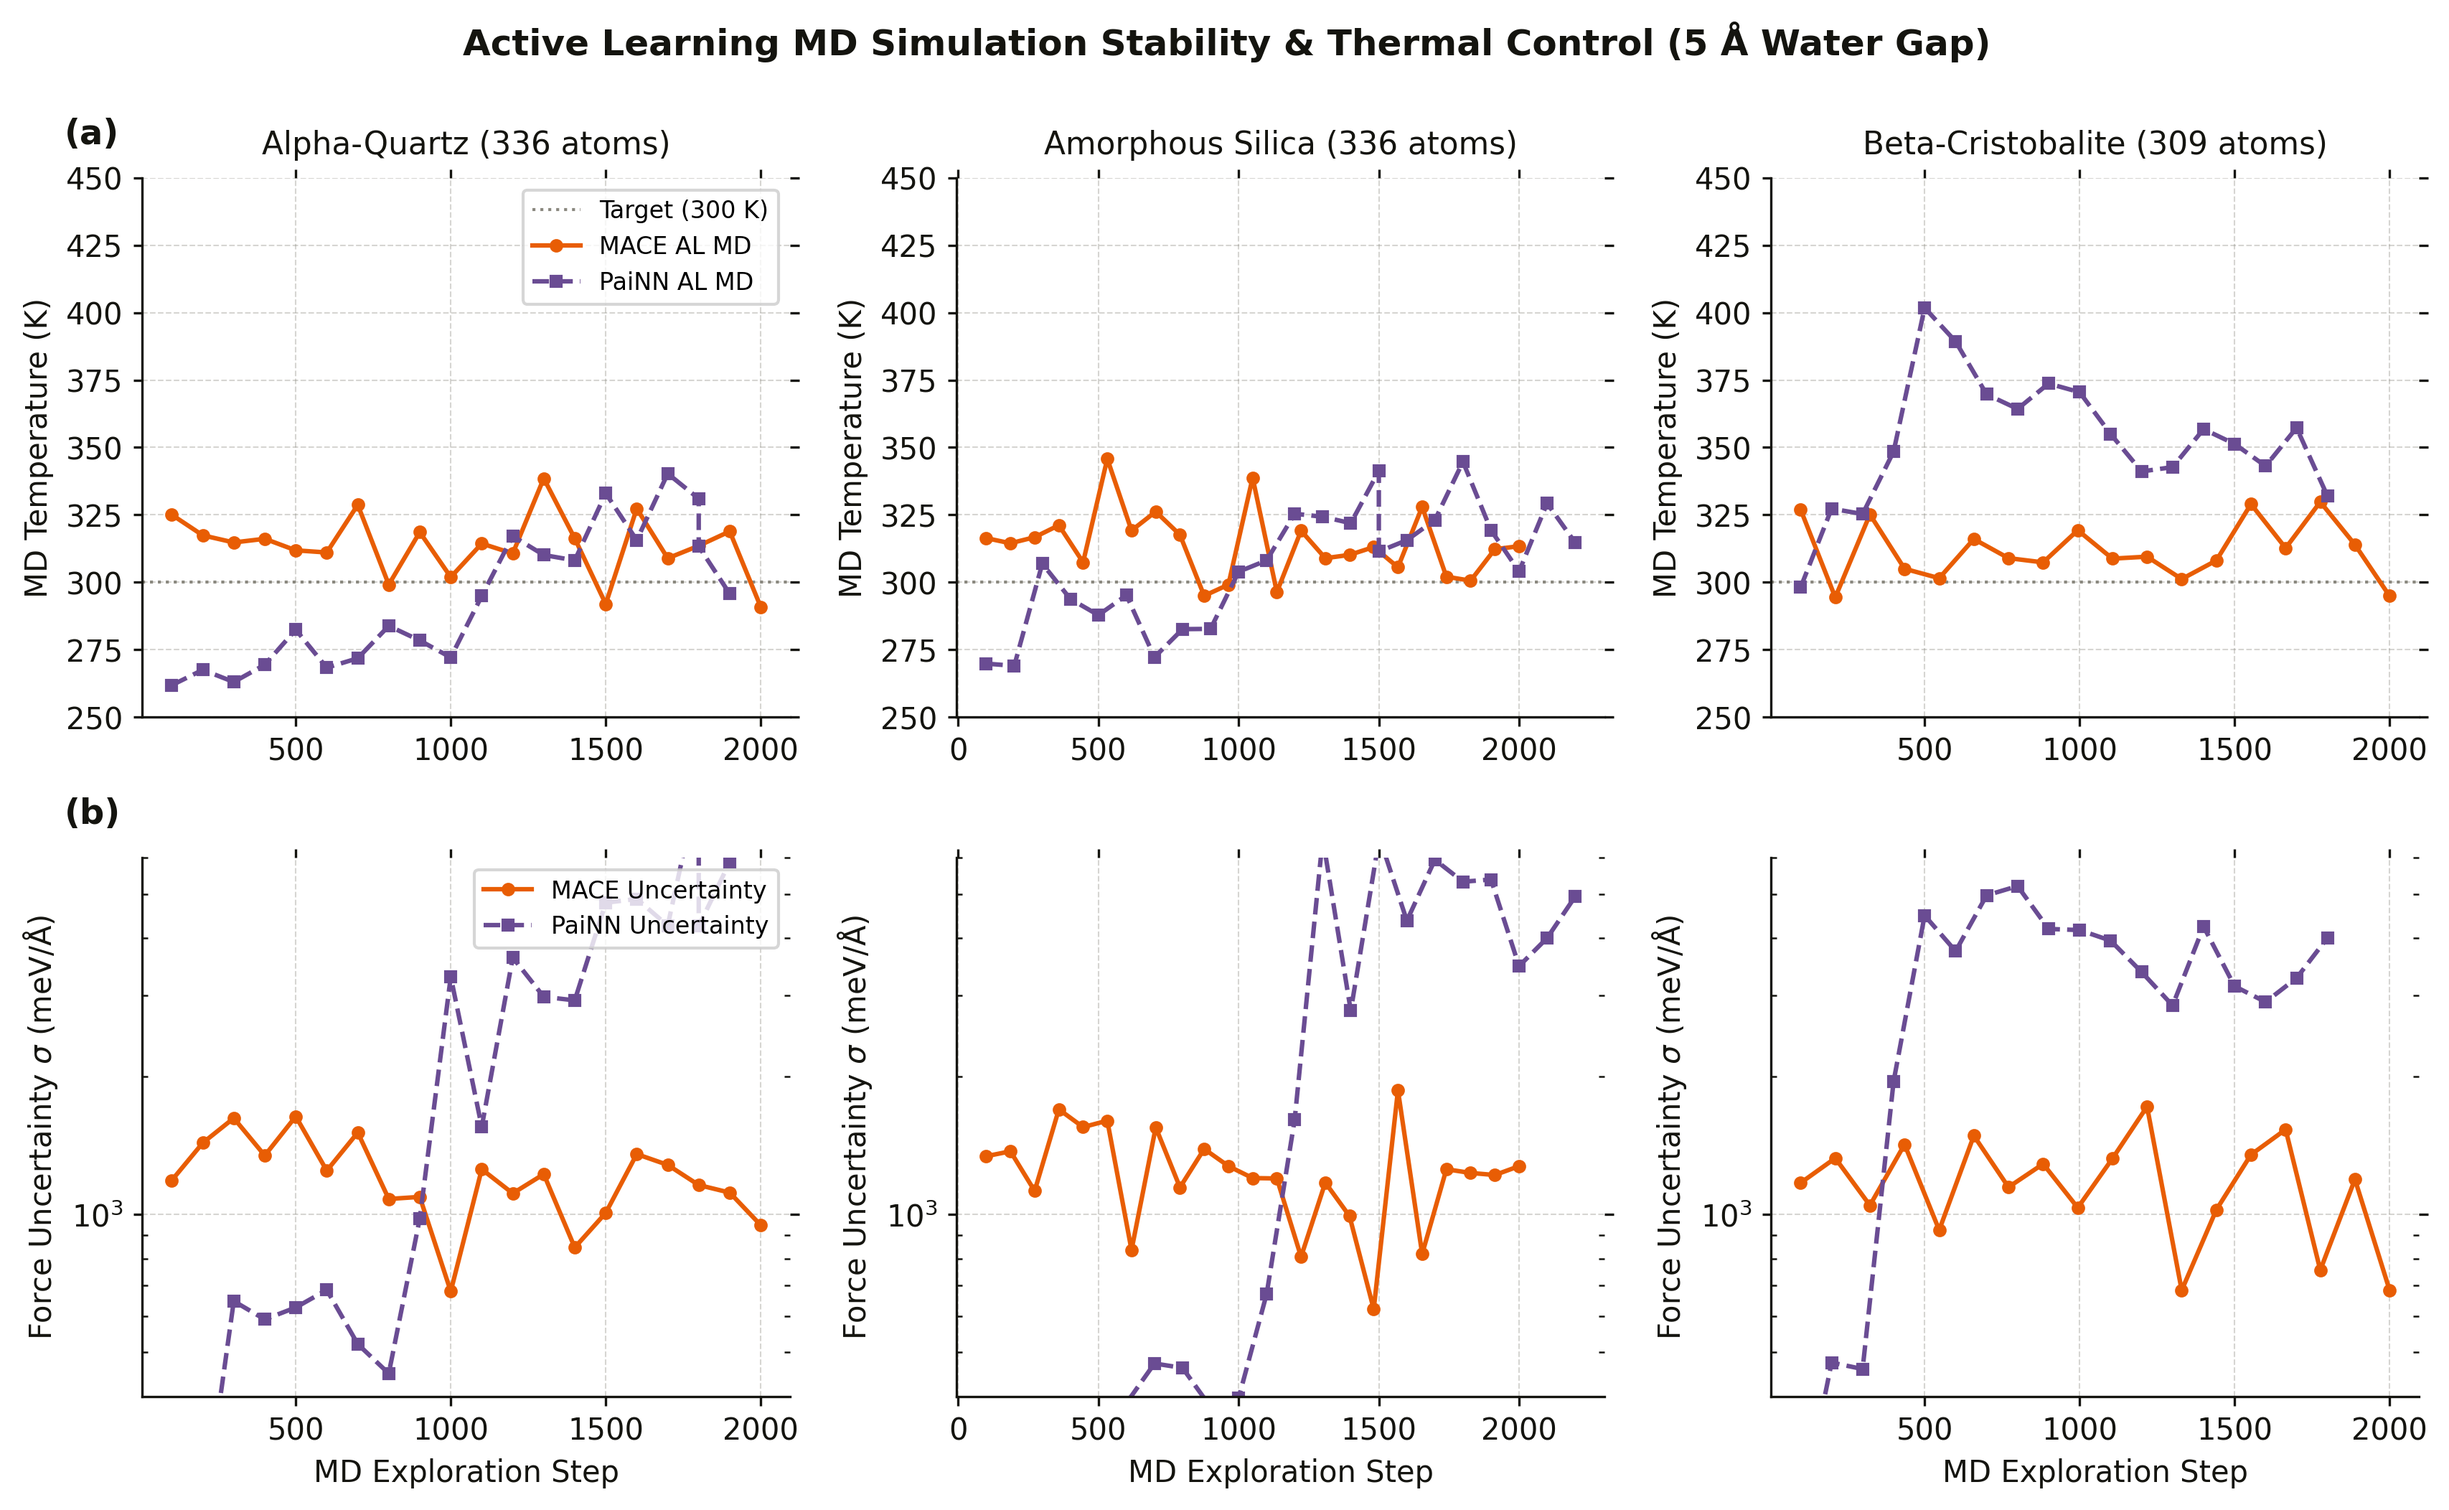
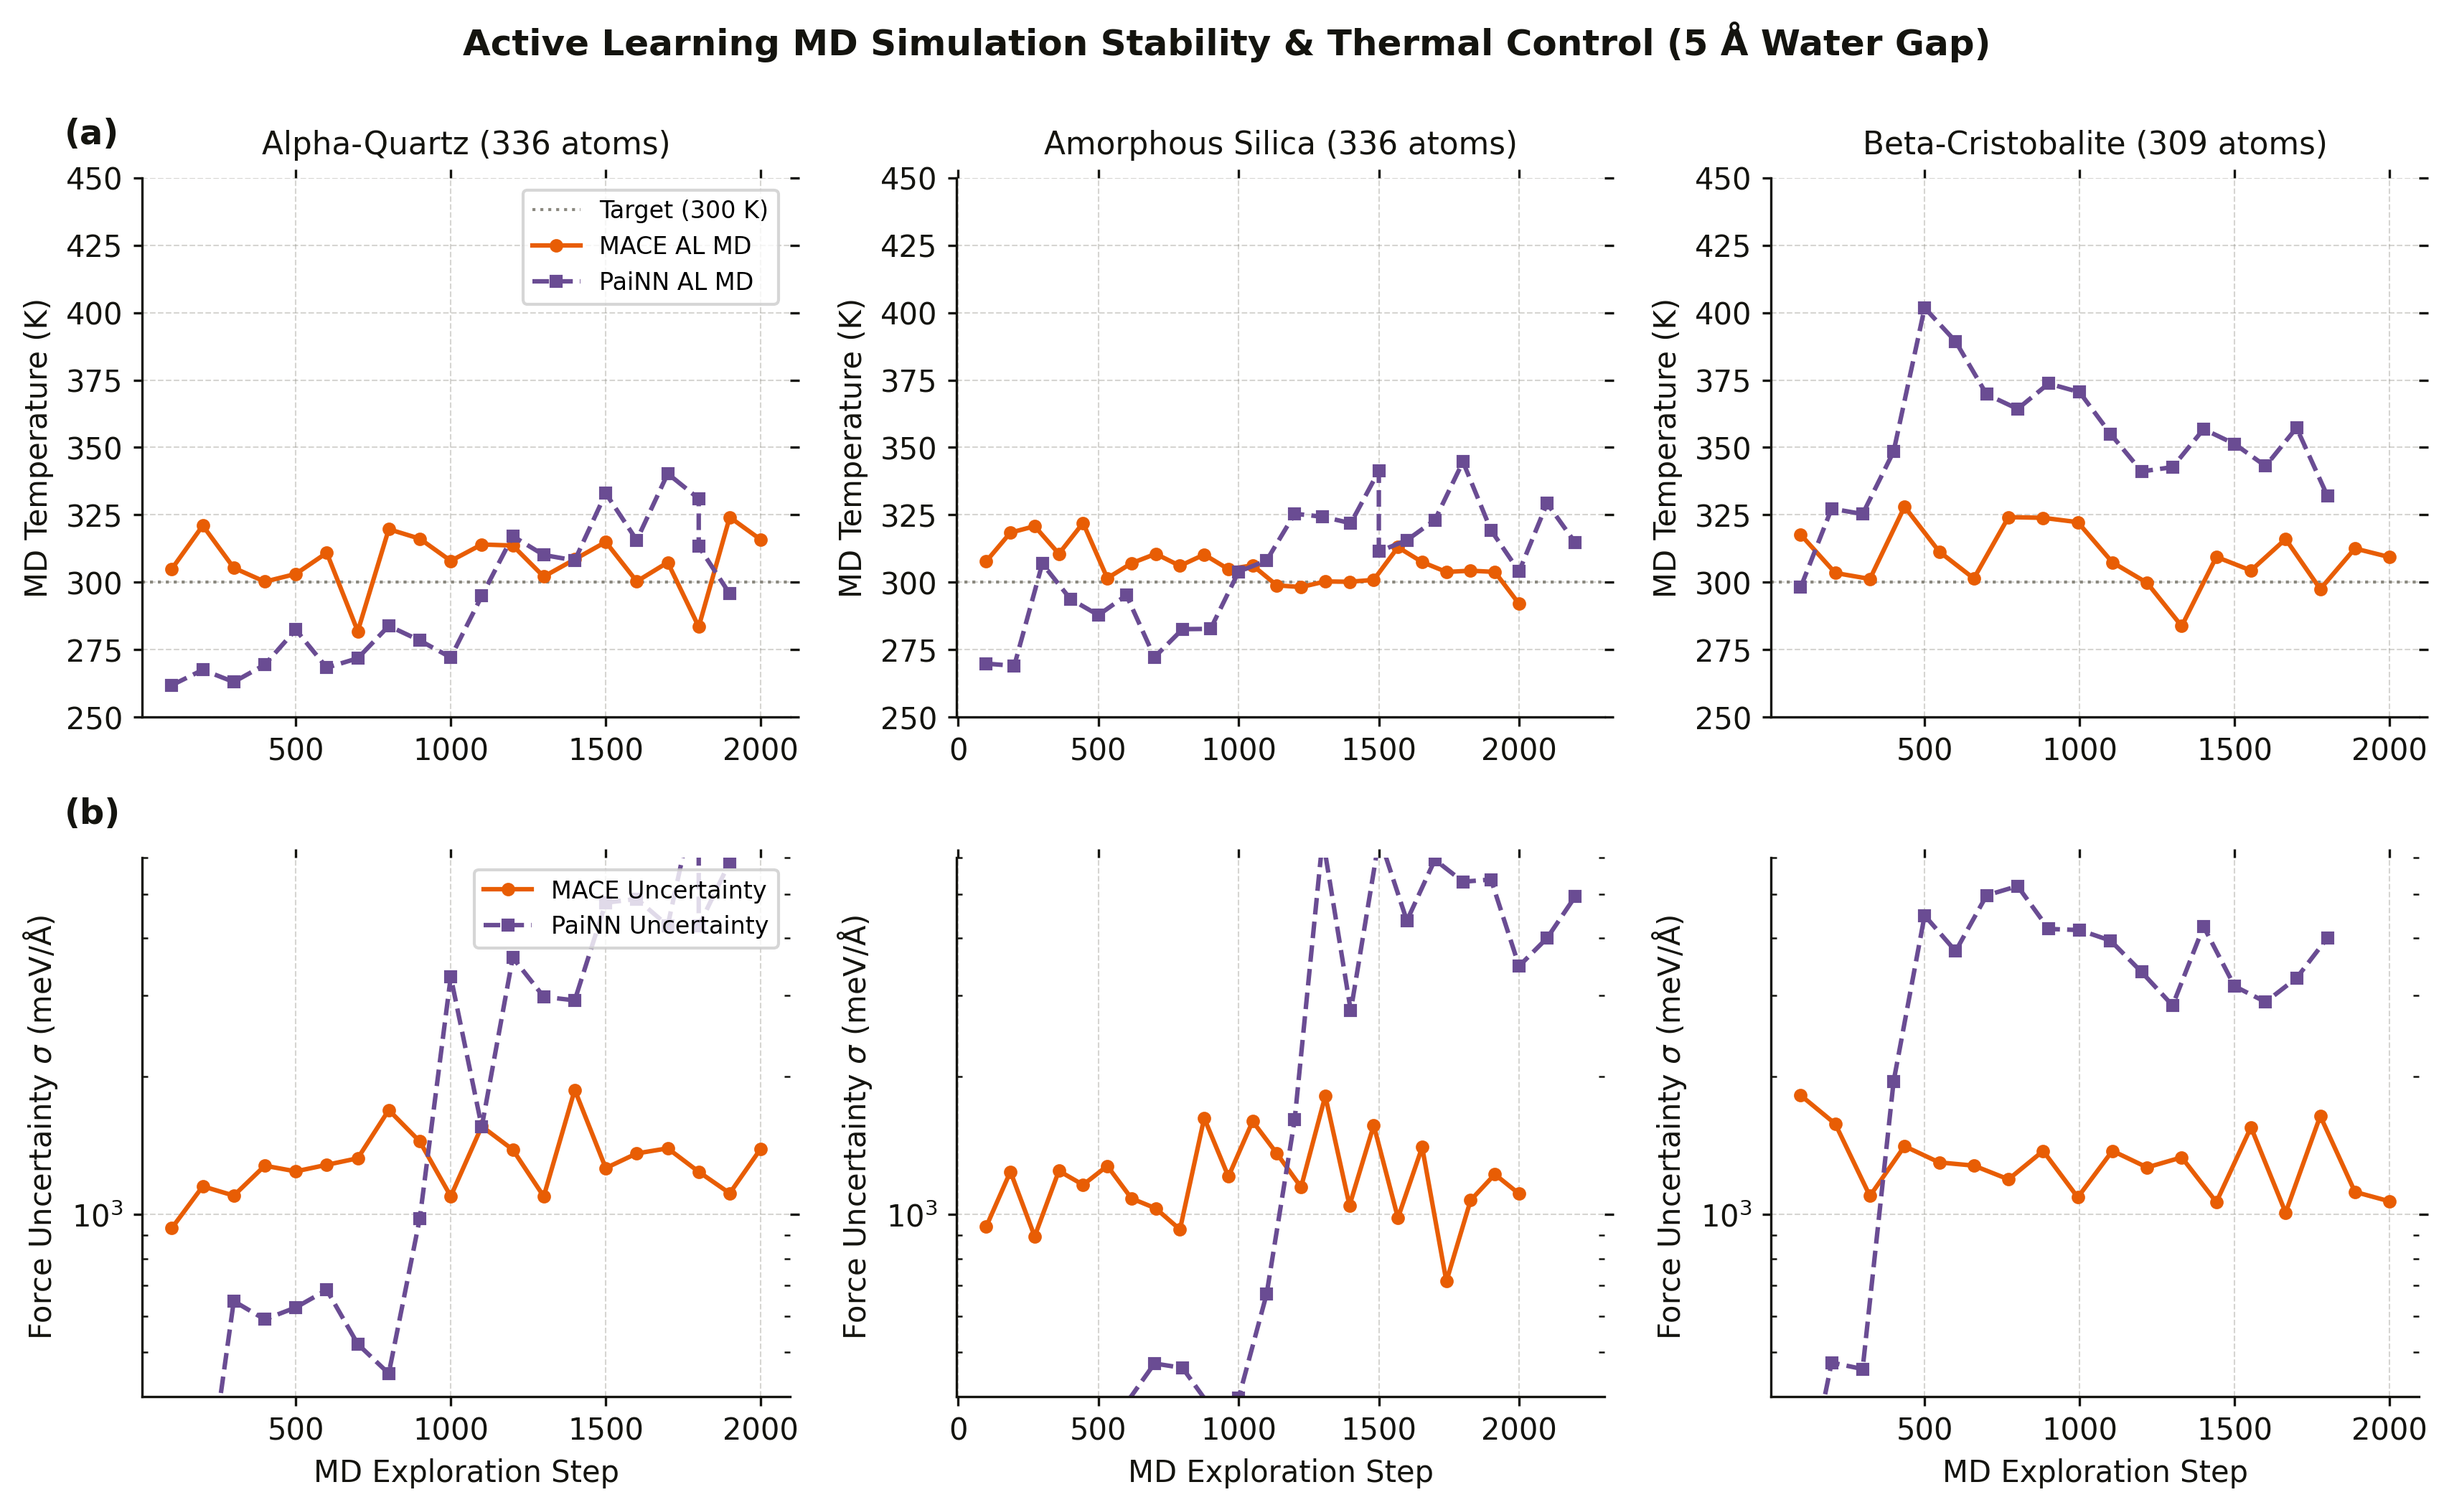
feat(figures): represent dynamic threshold tau as step function in Figure 1

diff --git a/benchmark_al_epochs/replay_mace.py b/benchmark_al_epochs/replay_mace.py
@@ -28,7 +28,7 @@ BENCHMARK_DIR = Path(__file__).resolve().parent
 try:
     from mace.calculators import MACECalculator
     from mace import data, tools
-    from mace.tools import torch_geometric
+    from mace.tools.torch_geometric.dataloader import DataLoader
 except ImportError:
     pass
 
@@ -162,8 +162,9 @@ def main():
         model = torch.load(str(current_model_path), map_location=args.device)
     model.to(args.device)
 
-    # Atomic numbers table: H(1), O(8), Si(14)
     z_table = tools.AtomicNumberTable([1, 8, 14])
+    keyspec = data.KeySpecification(info_keys={"energy": "REF_energy"}, arrays_keys={"forces": "REF_forces"})
+    model_dtype = next(model.parameters()).dtype
 
     for cycle_idx in range(1, num_cycles + 1):
         c_start = time.time()
@@ -174,9 +175,13 @@ def main():
         print(f"\n--- [Cycle {cycle_idx:02d}/{num_cycles}] Appended AL Point #{cycle_idx} (Total pool: {len(current_train_pool)} frames) ---")
 
         # Convert atoms to MACE AtomicData batches
-        data_loader = torch_geometric.dataloader.DataLoader(
+        data_loader = DataLoader(
             dataset=[
-                data.AtomicData.from_config(at, z_table=z_table, cutoff=5.0)
+                data.AtomicData.from_config(
+                    data.config_from_atoms(at, key_specification=keyspec),
+                    z_table=z_table,
+                    cutoff=5.0,
+                )
                 for at in current_train_pool
             ],
             batch_size=args.batch_size,
@@ -193,12 +198,12 @@ def main():
             for batch in data_loader:
                 batch = batch.to(args.device)
                 optimizer.zero_grad()
-                out = model(batch.to_dict(), compute_force=True)
+                out = model(batch.to_dict(), compute_force=True, training=True)
 
                 # Loss: energy (weight 1.0) + force (weight 100.0)
-                e_true = batch.energy
-                e_pred = out["energy"]
-                f_true = batch.forces
+                e_true = batch.energy.view(-1).to(model_dtype)
+                e_pred = out["energy"].view(-1)
+                f_true = batch.forces.to(model_dtype)
                 f_pred = out["forces"]
 
                 loss_e = torch.mean((e_pred - e_true) ** 2)
@@ -248,9 +253,13 @@ def main():
         print(f"\n>>> Running Post-AL Final Convergence Session ({args.conv_epochs} epochs)...")
         conv_start = time.time()
 
-        conv_loader = torch_geometric.dataloader.DataLoader(
+        conv_loader = DataLoader(
             dataset=[
-                data.AtomicData.from_config(at, z_table=z_table, cutoff=5.0)
+                data.AtomicData.from_config(
+                    data.config_from_atoms(at, key_specification=keyspec),
+                    z_table=z_table,
+                    cutoff=5.0,
+                )
                 for at in current_train_pool
             ],
             batch_size=args.batch_size,
@@ -268,10 +277,15 @@ def main():
             for batch in conv_loader:
                 batch = batch.to(args.device)
                 optimizer.zero_grad()
-                out = model(batch.to_dict(), compute_force=True)
+                out = model(batch.to_dict(), compute_force=True, training=True)
 
-                loss_e = torch.mean((out["energy"] - batch.energy) ** 2)
-                loss_f = torch.mean((out["forces"] - batch.forces) ** 2)
+                e_true = batch.energy.view(-1).to(model_dtype)
+                e_pred = out["energy"].view(-1)
+                f_true = batch.forces.to(model_dtype)
+                f_pred = out["forces"]
+
+                loss_e = torch.mean((e_pred - e_true) ** 2)
+                loss_f = torch.mean((f_pred - f_true) ** 2)
                 total_loss = loss_e + 100.0 * loss_f
 
                 total_loss.backward()

diff --git a/generate_post_al_figures.py b/generate_post_al_figures.py
@@ -37,7 +37,7 @@ MACE_AL_OUT = MACE_AL_DIR / "mace_al_5A_162797.out"
 PAINN_AL_OUT = PAINN_AL_DIR / "painn_al_parsl_163735.out"
 PAINN_CKPT_JSON = PAINN_AL_DIR / "al_checkpoint.json"
 FIG_DIR = BASE_DIR / "comparison_figures"
-ARTIFACTS_DIR = Path("/home/maria.crist/.gemini/antigravity-cli/brain/3835c7a3-3ac2-4b9e-abbb-83143e219d97")
+ARTIFACTS_DIR = Path("/home/maria.crist/.gemini/antigravity-cli/brain/3f8d84ec-8823-4a0a-b7bb-7a1304e9c582")
 
 FIG_DIR.mkdir(parents=True, exist_ok=True)
 ARTIFACTS_DIR.mkdir(parents=True, exist_ok=True)
@@ -152,7 +152,7 @@ def generate_figure1_mace():
     col_title(ax_th, "Adaptive Uncertainty Threshold & Queries (MACE)")
     ax_th.set_xlabel("Acquisition Trigger Event Index")
     ax_th.set_ylabel("Force Uncertainty (meV/Å)")
-    line_th = ax_th.plot(mace_trig_idx, mace_th, color=ORANGE, lw=1.8, label="Dynamic Threshold $\\tau$")
+    line_th = ax_th.step(mace_trig_idx, mace_th, where="mid", color=ORANGE, lw=1.8, label="Dynamic Threshold $\\tau$")
     ax_th.scatter(mace_trig_idx, mace_u, color=INK, marker="x", s=50, lw=1.8, zorder=5, label="Trigger Queries ($U > \\tau$)")
     style_axes(ax_th)
     ax_th.legend(loc="upper right", frameon=True, facecolor="white", edgecolor=MUTED, fontsize=8.5)
@@ -215,7 +215,7 @@ def generate_figure1_painn():
     col_title(ax_th, "Adaptive Uncertainty Threshold & Queries (PaiNN)")
     ax_th.set_xlabel("Acquisition Trigger Event Index")
     ax_th.set_ylabel("Force Uncertainty (meV/Å)")
-    line_th = ax_th.plot(painn_trig_idx, painn_th, color=PURPLE, lw=1.8, label=r"Dynamic Threshold $\tau$")
+    line_th = ax_th.step(painn_trig_idx, painn_th, where="mid", color=PURPLE, lw=1.8, label=r"Dynamic Threshold $\tau$")
     ax_th.scatter(painn_trig_idx, painn_u, color=INK, marker="x", s=50, lw=1.8, zorder=5, label=r"Trigger Queries ($U > \tau$)")
     style_axes(ax_th)
     ax_th.legend(loc="upper left", frameon=True, facecolor="white", edgecolor=MUTED, fontsize=8.5)

diff --git a/benchmark_al_epochs/analyze_and_plot_benchmark.py b/benchmark_al_epochs/analyze_and_plot_benchmark.py
@@ -132,13 +132,14 @@ def main():
     panel_label(ax, "(b)")
     col_title(ax, "Test Force RMSE Progression vs. AL Cycle")
     ax.set_xlabel("Active Learning Cycle (Unified Pool)")
-    ax.set_ylabel("Force RMSE (meV/Å)")
+    ax.set_ylabel("Force RMSE per Component (meV/Å)")
 
+    # Standardize to per-component RMSE (RMSE_vector / sqrt(3)) to match literature & Figure 4
     for name, data in painn_results.items():
         ep = data["config"]["epochs_per_cycle"]
         ls, lw, alpha = epoch_styles.get(ep, ("-", 1.5, 0.8))
         cycles = [c["cycle"] for c in data["cycles"] if c.get("test_eval")]
-        f_rmse = [c["test_eval"]["force_rmse_mev_per_A"] for c in data["cycles"] if c.get("test_eval")]
+        f_rmse = [c["test_eval"]["force_rmse_mev_per_A"] / np.sqrt(3.0) for c in data["cycles"] if c.get("test_eval")]
         if len(cycles) > 0:
             ax.plot(cycles, f_rmse, color=PURPLE, linestyle=ls, lw=lw, alpha=alpha, label=f"PaiNN ({ep} ep)")
 
@@ -146,7 +147,7 @@ def main():
         ep = data["config"]["epochs_per_cycle"]
         ls, lw, alpha = epoch_styles.get(ep, ("-", 1.5, 0.8))
         cycles = [c["cycle"] for c in data["cycles"] if c.get("test_eval")]
-        f_rmse = [c["test_eval"]["force_rmse_mev_per_A"] for c in data["cycles"] if c.get("test_eval")]
+        f_rmse = [c["test_eval"]["force_rmse_mev_per_A"] / np.sqrt(3.0) for c in data["cycles"] if c.get("test_eval")]
         if len(cycles) > 0:
             ax.plot(cycles, f_rmse, color=ORANGE, linestyle=ls, lw=lw, alpha=alpha, label=f"MACE ({ep} ep)")
 
